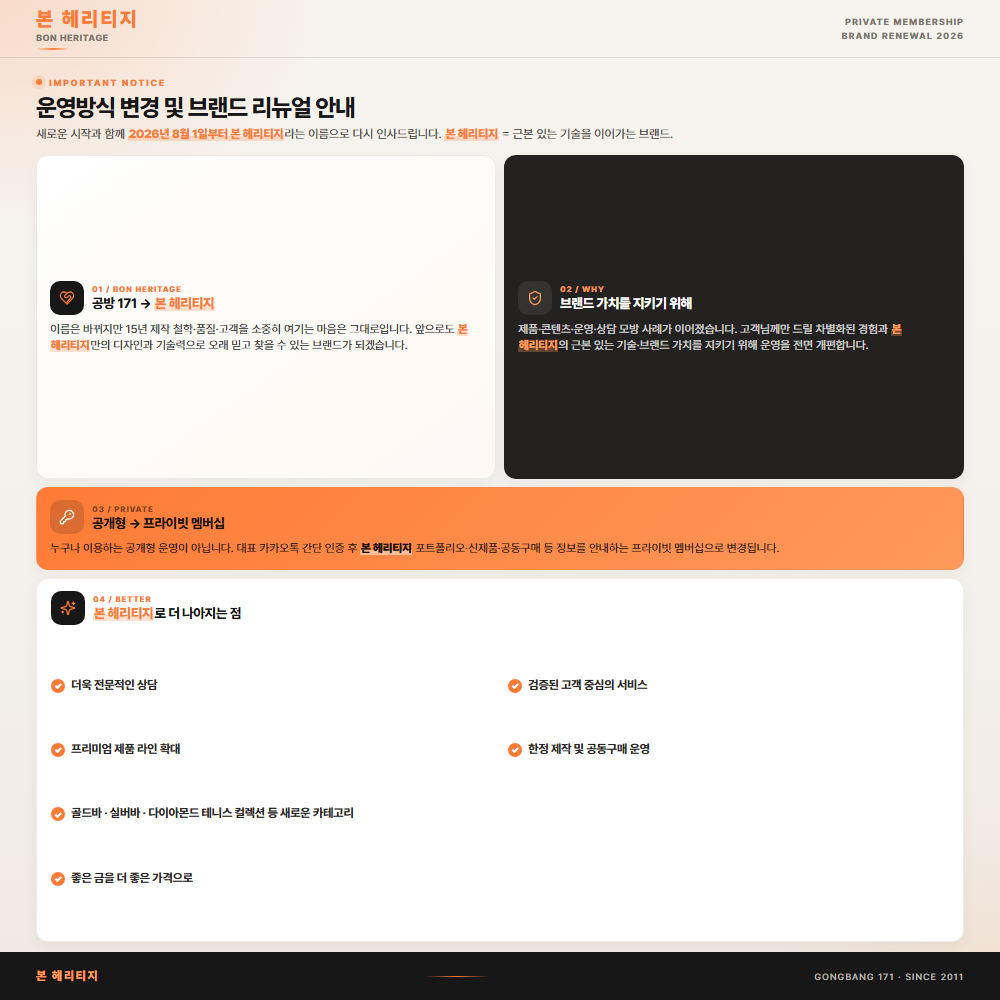
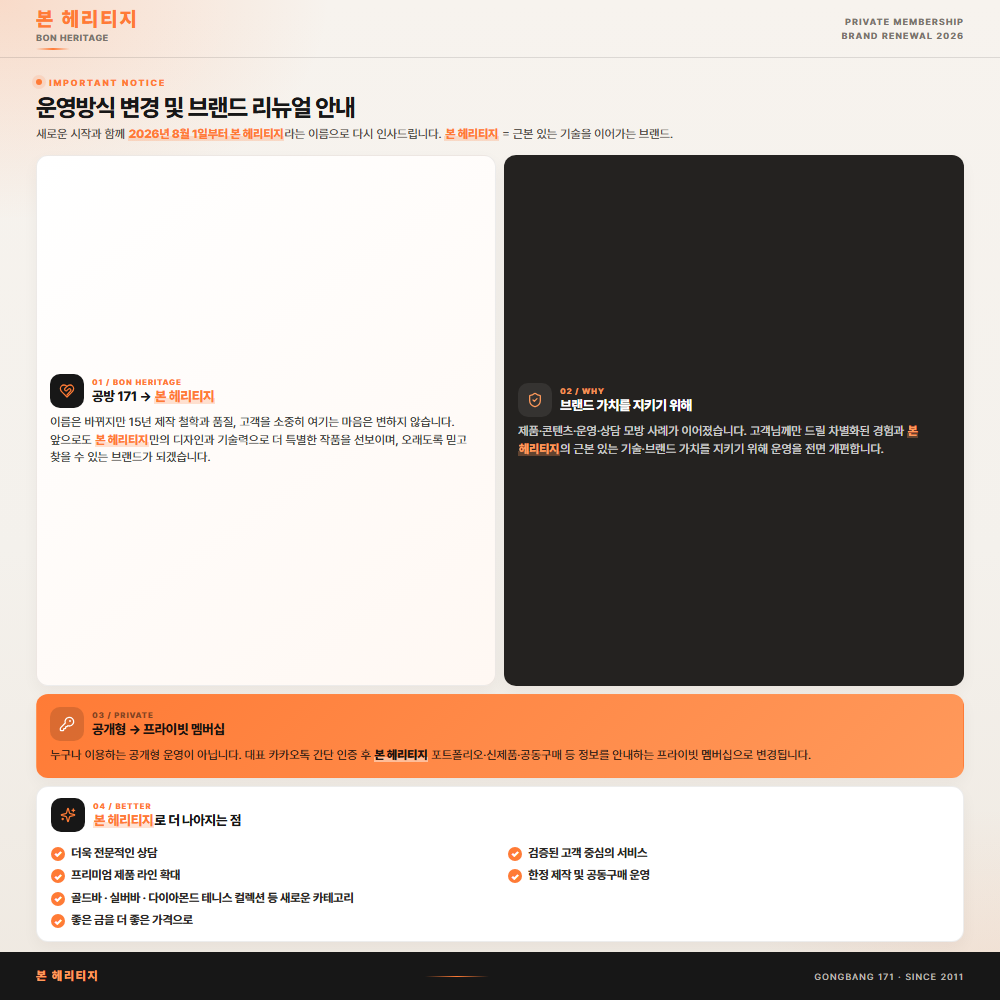
Pack 1000 poster benefits box to content height.

Changed region(s): [[0.031, 0.279, 0.961, 0.93], [0.496, 0.837, 0.651, 0.899]]

diff --git a/posters/renewal-1000.html b/posters/renewal-1000.html
@@ -136,7 +136,7 @@ body {
   display: grid;
   grid-template-columns: 1fr 1fr;
   gap: 8px;
-  flex: 1.05 1 auto;
+  flex: 1 1 auto;
   min-height: 0;
 }
 .sec {
@@ -165,12 +165,11 @@ body {
 .sec.c .num { color: rgba(27,19,15,.55); }
 .sec.c .body { color: rgba(27,19,15,.9); }
 .sec.d {
-  flex: 1 1 auto;
-  min-height: 0;
+  flex: 0 0 auto;
   background: #fff;
   display: flex;
   flex-direction: column;
-  padding: 12px 14px;
+  padding: 11px 14px 12px;
 }
 .head {
   display: flex;
@@ -216,19 +215,16 @@ h2 {
 }
 .body {
   margin: 0;
-  font-size: 11.5px;
-  line-height: 1.45;
+  font-size: 12px;
+  line-height: 1.48;
   color: #403d39;
   word-break: keep-all;
 }
 .checks {
   display: grid;
   grid-template-columns: 1fr 1fr;
-  gap: 6px 16px;
-  margin-top: 4px;
-  flex: 1 1 auto;
-  min-height: 0;
-  align-content: space-evenly;
+  gap: 7px 16px;
+  margin-top: 8px;
 }
 .check {
   display: flex;
@@ -306,7 +302,7 @@ h2 {
             <h2>공방 171 → <span class="brand">본 헤리티지</span></h2>
           </div>
         </div>
-        <p class="body">이름은 바뀌지만 15년 제작 철학·품질·고객을 소중히 여기는 마음은 그대로입니다. 앞으로도 <b class="brand">본 헤리티지</b>만의 디자인과 기술력으로 오래 믿고 찾을 수 있는 브랜드가 되겠습니다.</p>
+        <p class="body">이름은 바뀌지만 15년 제작 철학과 품질, 고객을 소중히 여기는 마음은 변하지 않습니다. 앞으로도 <b class="brand">본 헤리티지</b>만의 디자인과 기술력으로 더 특별한 작품을 선보이며, 오래도록 믿고 찾을 수 있는 브랜드가 되겠습니다.</p>
       </article>
 
       <article class="sec b">
